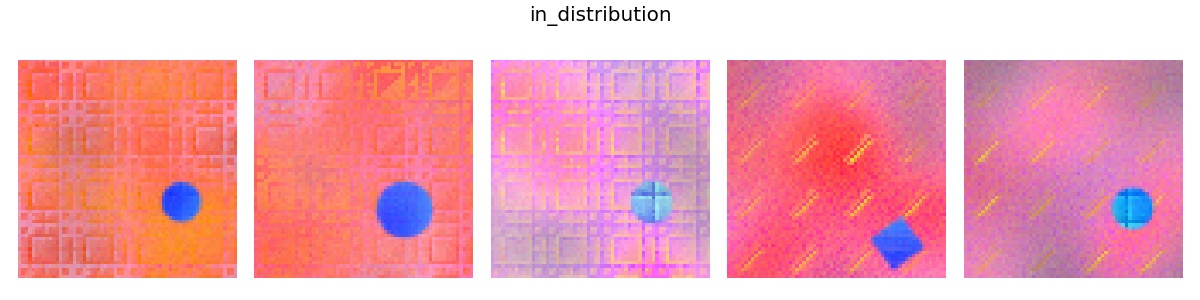
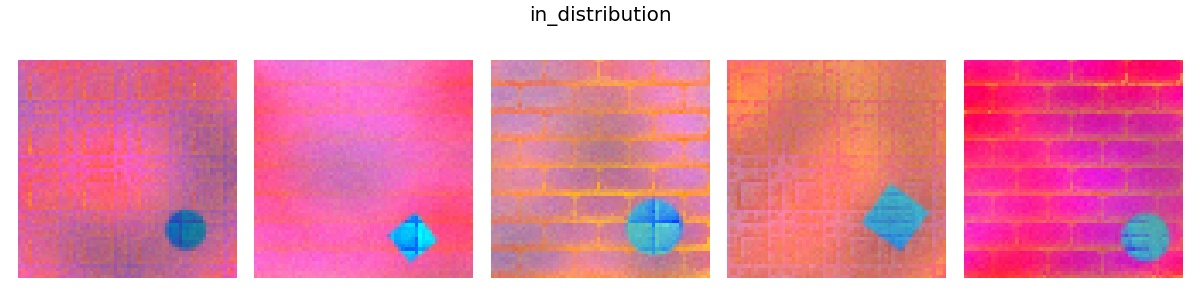
added a readme

diff --git a/example.py b/example.py
@@ -15,13 +15,13 @@ c4 = np.array((255, 154,  20), dtype=np.float) / 255.
 
 model = BaseGenerator(render,
 
-                      fg_color_1      = ds.ContinuousNormal(c1, 0.03),
-                      fg_color_2      = ds.ContinuousNormal(c2, 0.03),
+                      fg_color_1      = ds.ContinuousNormal(c1, 0.02),
+                      fg_color_2      = ds.ContinuousNormal(c2, 0.02),
                       fg_texture      = ds.DiscreteChoice([0,1]),
 
-                      bg_color_1      = ds.ContinuousNormal(c3, 0.03),
-                      bg_color_2      = ds.ContinuousNormal(c4, 0.03),
-                      bg_texture      = ds.DiscreteChoice([2,3]),
+                      bg_color_1      = ds.ContinuousNormal(c3, 0.02),
+                      bg_color_2      = ds.ContinuousNormal(c4, 0.02),
+                      bg_texture      = ds.DiscreteChoice([2,4]),
 
                       object_size     = ds.ContinuousUniform(0.15, 0.15),
                       object_shape    = ds.DiscreteChoice(['circle', 'square']),
@@ -33,10 +33,10 @@ model = BaseGenerator(render,
 model.set_distribution('in_distribution', inherit_from='default')
 
 model.set_distribution('ood_color', inherit_from='default',
-                       fg_color_1 = ds.ContinuousNormal(c3, 0.05),
-                       fg_color_2 = ds.ContinuousNormal(c4, 0.05),
-                       bg_color_1 = ds.ContinuousNormal(c1, 0.05),
-                       bg_color_2 = ds.ContinuousNormal(c2, 0.05)
+                       fg_color_1 = ds.ContinuousNormal(c3, 0.02),
+                       fg_color_2 = ds.ContinuousNormal(c4, 0.02),
+                       bg_color_1 = ds.ContinuousNormal(c1, 0.02),
+                       bg_color_2 = ds.ContinuousNormal(c2, 0.02)
                        )
 
 model.set_distribution('ood_texture', inherit_from='default',

diff --git a/README.rst b/README.rst
@@ -1,0 +1,61 @@
+*******
+ProDAS
+*******
+Probabilistic Dataset of Abstract Shapes
+
+What is this?
+###############
+
+* This library provides a latent factor model that can be applied to any rendering function in a flexible way.
+  It can sample inputs to the rendering function, and evaluate their likelihood. 
+  It can support multiple different distributions at the same time
+  (for instance, in-distribution and out-of-distribution, or different environments).
+* Additionally, it provides 'Dsprites++' as a rendering frontend, supporting colors, textures, and more.
+* It provides sensible defaults for creating a meaningful dataset, ready generated and provided for download.
+
+Possible applications for the dataset:
+
+* Out-of-distribution detection
+* Concept discovery
+* Disentanglement
+* Causal discovery
+* Domain transfer, domain adaption, few-shot learning, etc.
+* Generative modeling/density estimation
+
+ToDos
+#########
+
+* [x] Distributions for the latent factor model
+* [x] Latent factor model with sampling and likelihoods, multiple distributions
+* [ ] Support for latent SCMs
+* [ ] Simple parallel rendering via a `.sample_parallel()` method
+* [x] Basic shapes rendering
+* [x] Textures, perlin noise, other post-processing
+* [ ] Arrangements of multiple foreground shapes in a specified
+
+Example
+#########
+
+The script `example.py` shows how to define a model with a default distribution (in-distribution)
+and several other distributions that differ in various ways (out-of-distribon, OoD).
+
+.. image:: example_figures/in_distribution.jpg
+            :width: 800px
+            :align: left
+
+.. image:: example_figures/ood_position.jpg
+            :width: 800px
+            :align: left
+
+.. image:: example_figures/ood_shape.jpg
+            :width: 800px
+            :align: left
+
+.. image:: example_figures/ood_color.jpg
+            :width: 800px
+            :align: left
+
+.. image:: example_figures/ood_texture.jpg
+            :width: 800px
+            :align: left
+
